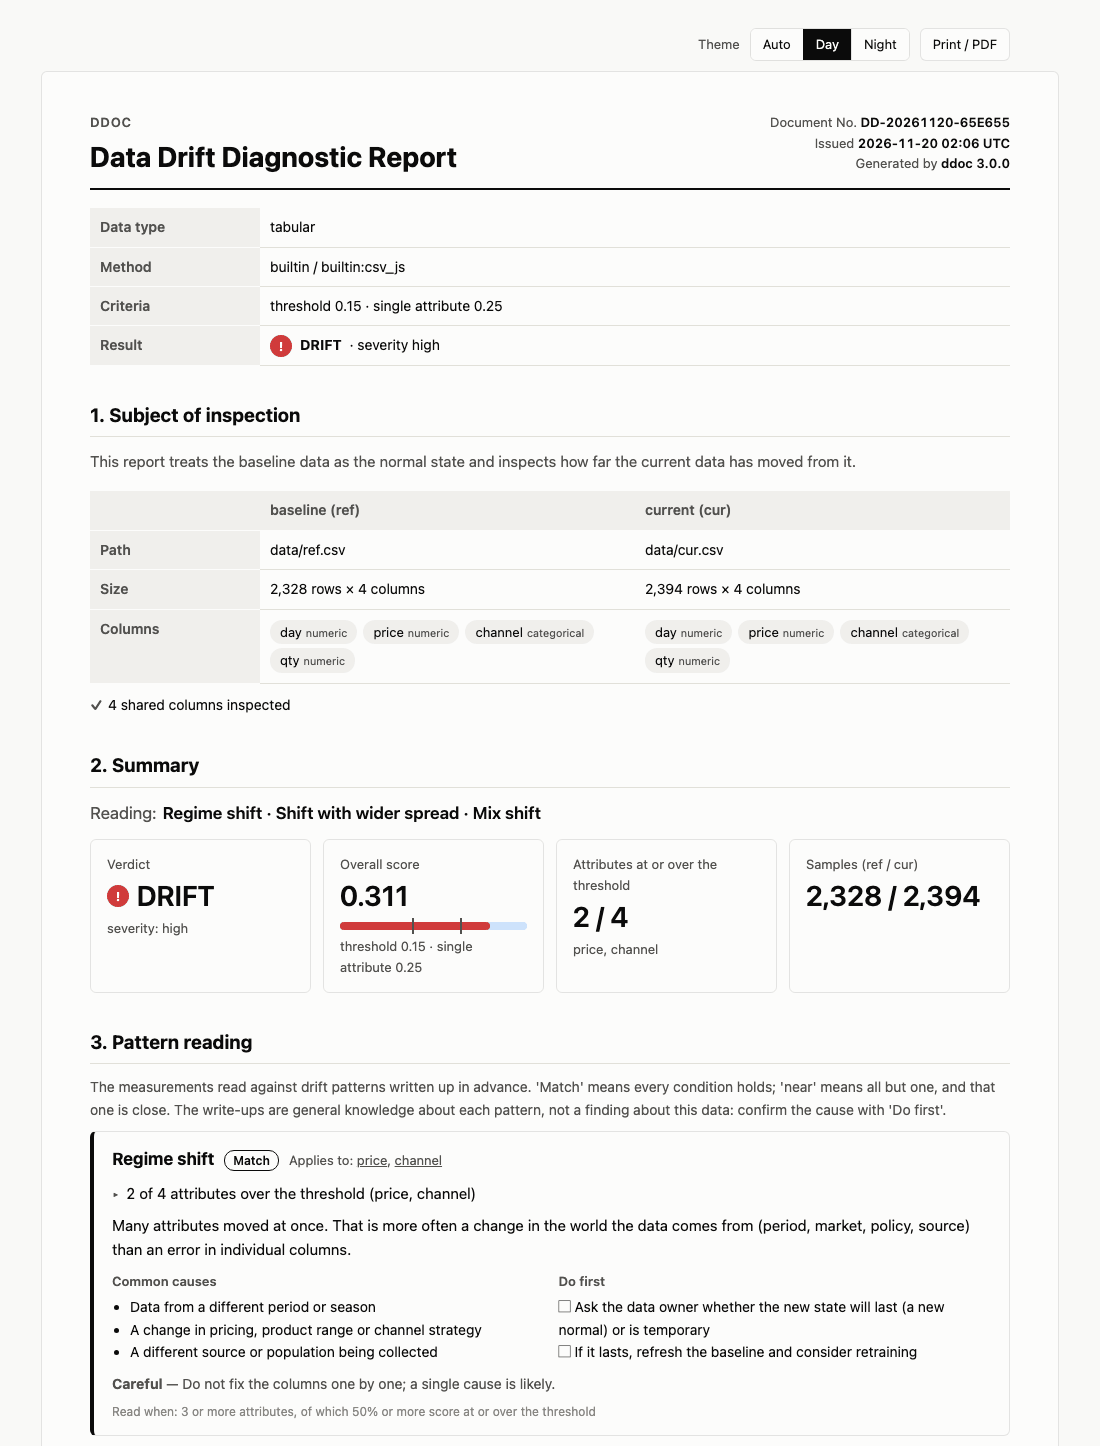
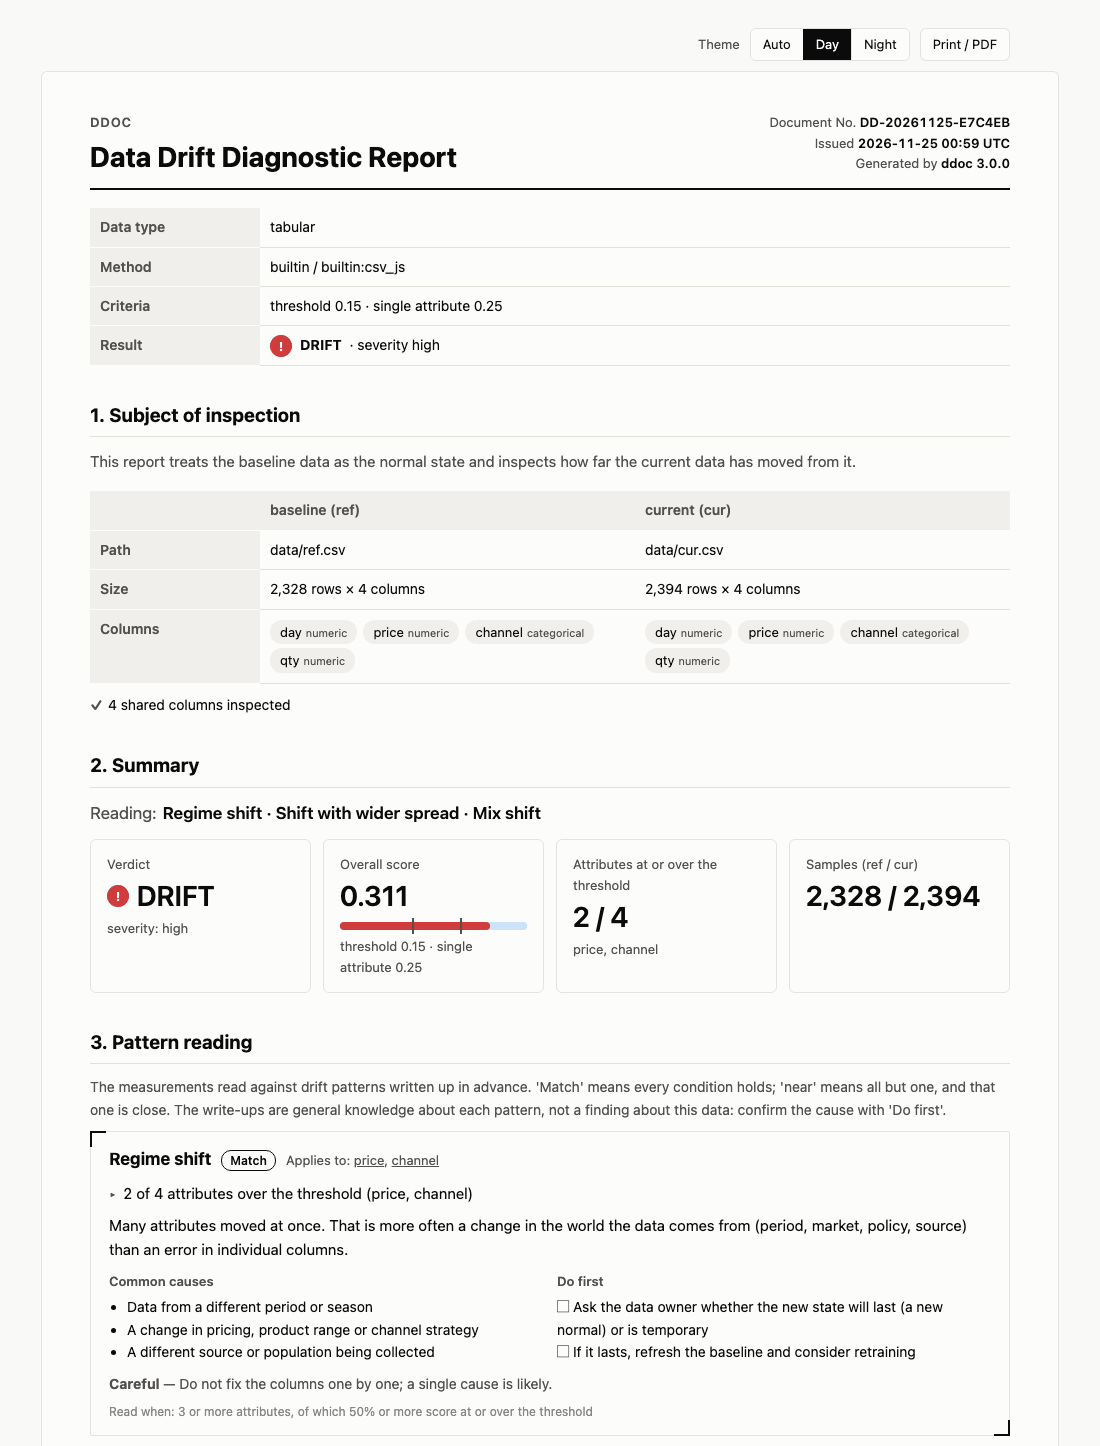
style(report): reading brackets and a margin ※ instead of the thick left bar
Pattern cards in the diagnostic and profile reports and the verdict band
on the serve front page lose the heavy left border. A reading is now
framed by two corner brackets 「 」 (the verdict's in its status colour),
and a caution is a ruled line led by ※ rather than a box.

Each mark keeps one meaning across the report and the app: brackets for
a reading to examine, ※ for how far to trust it, hatching for "not
compared", a dashed edge for "one side only" or "near" (the app's near
tag now uses the dashed edge too). The table is in the concepts guide.
Screenshots of the report cards and the GUI result are re-taken.

Changed region(s): [[0.0618, 0.778, 0.8655, 0.9959], [0.8655, 0.0622, 0.8964, 0.0934], [0.8036, 0.0622, 0.8345, 0.0934]]

diff --git a/packages/ddoc/ddoc/server/static/workbench.css b/packages/ddoc/ddoc/server/static/workbench.css
@@ -194,10 +194,16 @@ body { background: var(--page); color: var(--ink); }
 .res-top { margin-bottom: 10px; }
 .verdict {
   --tok: var(--warning);
-  display: grid; grid-template-columns: auto minmax(220px, 300px) 1fr; gap: 28px; align-items: center;
-  background: color-mix(in srgb, var(--tok) 9%, var(--surface)); border: 1px solid color-mix(in srgb, var(--tok) 45%, var(--grid));
-  border-left: 6px solid var(--tok); border-radius: 14px; padding: 22px 26px; box-shadow: var(--shadow);
+  position: relative; display: grid; grid-template-columns: auto minmax(220px, 300px) 1fr; gap: 28px; align-items: center;
+  background: color-mix(in srgb, var(--tok) 7%, var(--surface)); border: 1px solid color-mix(in srgb, var(--tok) 35%, var(--grid));
+  border-radius: 3px; padding: 22px 26px;
 }
+/* the verdict is a reading: framed by the report's corner brackets 「 」, in its status colour */
+.verdict::before, .verdict::after {
+  content: ""; position: absolute; width: 26px; height: 26px; border: 0 solid var(--tok); pointer-events: none;
+}
+.verdict::before { top: -1px; left: -1px; border-width: 3px 0 0 3px; }
+.verdict::after { bottom: -1px; right: -1px; border-width: 0 3px 3px 0; }
 .tok-good { --tok: var(--good); } .tok-warning { --tok: var(--warning); }
 .tok-serious { --tok: var(--serious); } .tok-critical { --tok: var(--critical); }
 .v-main { display: flex; align-items: center; gap: 16px; }
@@ -244,7 +250,7 @@ body { background: var(--page); color: var(--ink); }
 .pcard header b { font-size: 16px; }
 .pcard.near header b { color: var(--ink-2); }
 .mtag { font-size: 11px; font-weight: 700; padding: 0.1em 0.5em; border-radius: 5px; background: var(--ink); color: var(--surface); }
-.mtag.near { background: none; color: var(--ink-2); border: 1px solid var(--axis); }
+.mtag.near { background: none; color: var(--ink-2); border: 1px dashed var(--ink-2); }
 .pcard .attrs { font-size: 12px; color: var(--muted); font-family: "SFMono-Regular", Consolas, monospace; }
 .pcard p { font-size: 13px; line-height: 1.55; color: var(--ink-2); }
 .pcard p.signal { color: var(--ink); font-weight: 550; }

diff --git a/packages/ddoc/ddoc/cli/commands/diff_report.py b/packages/ddoc/ddoc/cli/commands/diff_report.py
@@ -37,6 +37,7 @@ _CSS = """
   --grid: #e1e0d9; --axis: #c3c2b7; --border: rgba(11,11,11,0.10);
   --cur: #2a78d6; --ref: #898781; --track: #cde2fb; --link: #c3c2b7;
   --good: #0ca30c; --warning: #fab219; --serious: #ec835a; --critical: #d03b3b;
+  --warning-ink: #8a5a00;
   --chip: #f0efec; --tip-bg: #0b0b0b; --tip-ink: #f0efec;
 }
 /* Night theme: follows the OS unless the reader picks one; screen only,
@@ -47,6 +48,7 @@ _CSS = """
     --page: #0d0d0d; --surface: #1a1a19; --ink: #f0efec; --ink-2: #c3c2b7; --muted: #898781;
     --grid: #2c2c2a; --axis: #383835; --border: rgba(255,255,255,0.10);
     --cur: #3987e5; --ref: #75746e; --track: #184f95; --link: #383835;
+    --warning-ink: #fab219;
     --chip: #2c2c2a; --tip-bg: #f0efec; --tip-ink: #0b0b0b;
   }
 }
@@ -56,6 +58,7 @@ _CSS = """
     --page: #0d0d0d; --surface: #1a1a19; --ink: #f0efec; --ink-2: #c3c2b7; --muted: #898781;
     --grid: #2c2c2a; --axis: #383835; --border: rgba(255,255,255,0.10);
     --cur: #3987e5; --ref: #75746e; --track: #184f95; --link: #383835;
+    --warning-ink: #fab219;
     --chip: #2c2c2a; --tip-bg: #f0efec; --tip-ink: #0b0b0b;
   }
 }
@@ -96,8 +99,13 @@ h3 { font-size: 16px; margin: 0; }
 .meter { position: relative; height: 8px; border-radius: 4px; background: var(--track); margin-top: 10px; }
 .meter .fill { position: absolute; left: 0; top: 0; bottom: 0; border-radius: 4px; }
 .meter .tick { position: absolute; top: -4px; width: 2px; height: 16px; background: var(--ink-2); }
-.caution { border: 1px solid var(--warning); border-left-width: 4px; border-radius: 6px;
-           padding: 10px 14px; margin-top: 14px; font-size: 14px; }
+/* Marks, each with one meaning: corner brackets 「 」 frame a reading (a finding
+   to examine), ※ flags a note on how far to trust what is read, hatching is
+   "not compared", a dashed edge is "one side only" or "near". */
+.caution { position: relative; margin-top: 14px; padding: 9px 0 9px 1.9em; font-size: 14px;
+           border-top: 1px solid var(--grid); border-bottom: 1px solid var(--grid); }
+.caution::before { content: "※"; position: absolute; left: .25em; top: 9px;
+                   color: var(--warning-ink); font-weight: 700; }
 .why li, .plain li { margin: 6px 0; }
 .pod { border: 1px solid var(--border); border-radius: 6px; margin: 14px 0; break-inside: avoid; }
 .pod > .hd { display: flex; justify-content: space-between; align-items: baseline; gap: 12px;
@@ -187,8 +195,12 @@ table.examples td.nm-cell { font-family: ui-monospace, SFMono-Regular, Menlo, mo
 .headline { font-size: 17px; font-weight: 600; margin: 0 0 12px; }
 .headline .k { color: var(--ink-2); font-weight: 400; margin-right: 6px; }
 .cards { display: grid; gap: 12px; }
-.card { border: 1px solid var(--border); border-left: 4px solid var(--ink); border-radius: 6px;
+.card { position: relative; border: 1px solid var(--border); border-radius: 2px;
         padding: 14px 18px; break-inside: avoid; }
+.card::before, .card::after { content: ""; position: absolute; width: 14px; height: 14px;
+                              border: 0 solid var(--ink); pointer-events: none; }
+.card::before { top: -1px; left: -1px; border-width: 2px 0 0 2px; }
+.card::after { bottom: -1px; right: -1px; border-width: 0 2px 2px 0; }
 .card header { display: flex; flex-wrap: wrap; align-items: baseline; gap: 6px 10px; }
 .card h3 { font-size: 17px; }
 .card .badge { font-size: 12px; font-weight: 600; border: 1px solid var(--ink); border-radius: 10px;

diff --git a/packages/ddoc/docs/changelog.md b/packages/ddoc/docs/changelog.md
@@ -25,6 +25,8 @@
 - ✨ `ddoc serve` 의 첫 화면을 진단 화면으로 — 파일·폴더 끌어다 놓기와 서버 폴더 탐색으로 데이터를 넣고, 넣는 즉시
   내용(행·열·기간·열 이름)과 판정 전 확인을 보여주며, 결과는 판정·유형 카드·열별 분포 그림·진단서(HTML·PDF·Markdown
   저장)로. 정답이 있는 예제 사례 4개, 주소로 바로 여는 링크(`/?case=…`, `/?ref=…&cur=…`), 주간·야간. 기존 폼은 "고급 도구"로
+- 🎨 진단서·프로필 보고서·진단 화면의 강조 표시를 왼쪽 굵은 띠 대신 판독 낫표 「 」(유형 카드·판정)와 여백 ※(주의)로.
+  표지마다 뜻이 하나 ([개념](tutorial/concepts.md#5-진단서와-진단))
 - ✨ `ddoc serve` (REST + GUI), `recipe`, `report`, `export`, `fetch`, `examples` 명령
 - ✨ 한글 리포트 (`--lang ko` / `DDOC_LANG=ko`)
 - ✨ 검사 보고서 형식의 진단서: 발행처·문서 번호, 요약 대시보드, 속성별 그래프, 데이터 특징, 패턴별 점검 항목 (`--json` 의 `diagnosis`), 화면 테마(자동·주간·야간)와 인쇄 버튼, 검사 대상 섹션, 유형 판독(17가지 드리프트 유형 카드), 임베딩 지도(`--with-embeddings`), 데이터 도면, 계통별 검사표, `--sample-rows`

diff --git a/packages/ddoc/docs/tutorial/concepts.md b/packages/ddoc/docs/tutorial/concepts.md
@@ -89,6 +89,15 @@ envelope 를 입력으로 받으므로, 단계별 결과를 파일로 남겨 다
 있고(브라우저에 기억됨), "인쇄 / PDF" 버튼은 테마와 상관없이 흰 바탕 A4 로
 인쇄합니다.
 
+진단서와 `ddoc serve` 진단 화면의 표지는 하나에 뜻이 하나입니다.
+
+| 표지 | 뜻 | 쓰이는 곳 |
+|---|---|---|
+| 낫표 「 」 (두 모서리) | 살펴볼 판독 | 유형 판독 카드, 진단 화면의 판정 (색은 판정 상태) |
+| ※ | 판정을 얼마나 믿을지에 대한 메모 | 표본이 적을 때 등의 주의, 표본 행 안내 |
+| 빗금 | 비교 제외 | 데이터 도면의 날짜·시간 열, 한쪽에만 있는 열 |
+| 점선 | 한쪽에만 있음, 또는 가까움 | 검사 대상의 열 구성, 유형 판독의 "가까움" |
+
 감지하는 패턴: 새 값 등장, 값 소멸, 구성비 변화(10%p 이상), 기준 범위 밖 값(5%
 이상), 평균 이동(기준 표준편차의 0.5배 이상), 산포 변화(1.5배 이상), 결측률
 변화(5%p 이상). 어느 쪽이든 표본이 30개 미만이면 잠정 판정으로 경고합니다.
